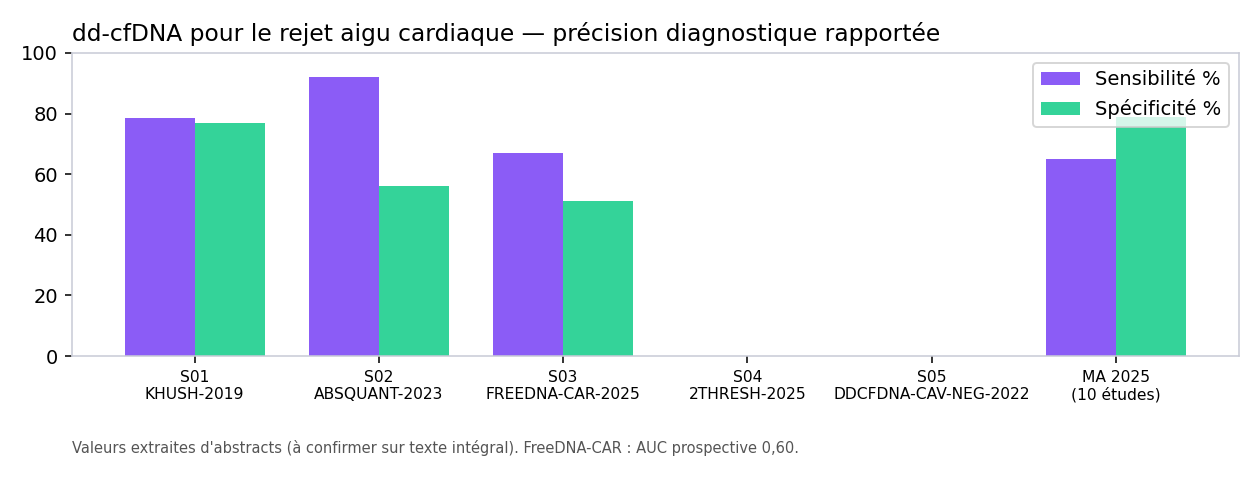
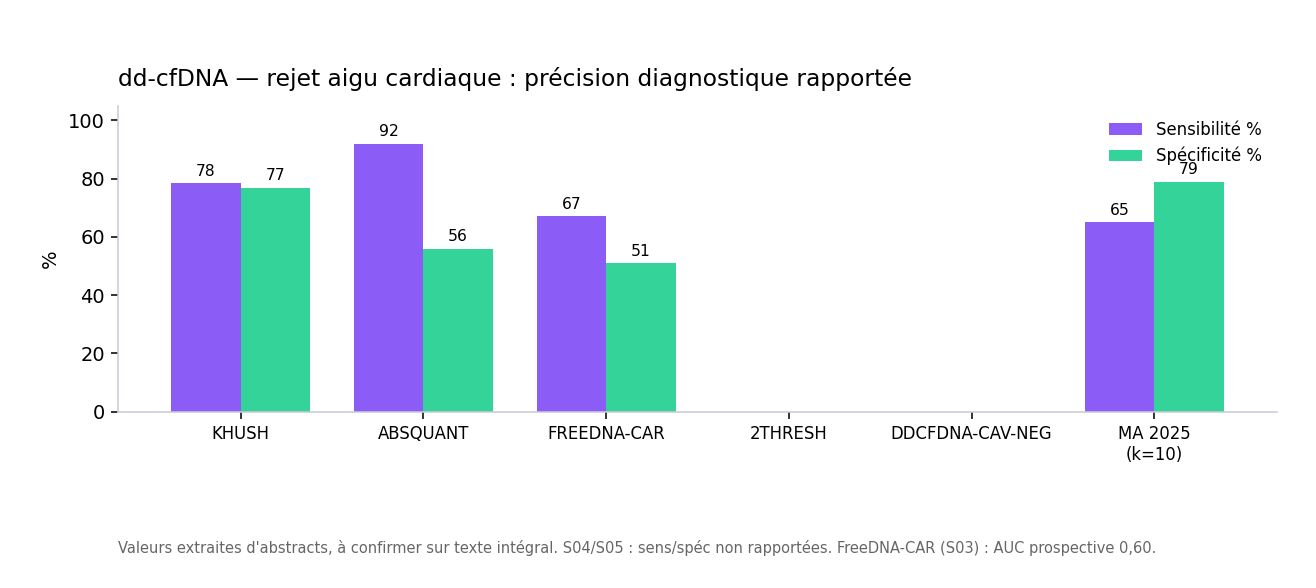
Fix figure layout — no overlapping text, legends fully inside canvas
Per user feedback (overlapping title/ticks, clipped legend labels on the radar):
- scoring_radar: title as high fig.text, legend below in one column with full
  short labels (never clipped), r-tick labels moved to an empty sector (198deg),
  generous reserved margins
- scoring_bars: full untruncated team labels, left margin widened, value labels clear
- ddcfdna_landscape: legend inside upper-right (no bar overlap), value labels above
  bars, caption via fig.text within a reserved bottom margin
- prisma: even vertical slots, arrows between boxes only, text wrapped inside boxes;
  shows real identified (794) / deduped (670) counts
- all four PNGs visually verified; RAPPORT_FINAL.md regenerated; app boots clean

diff --git a/scripts/02_generate_figures.py b/scripts/02_generate_figures.py
@@ -3,17 +3,22 @@
 Génère à partir des données seed :
   figures/fig_scoring_radar.png    — radar des 5 équipes françaises (6 axes /10)
   figures/fig_scoring_bars.png     — total pondéré /70, trié
-  figures/fig_ddcfdna_landscape.png— sens/spéc/AUC des études dd-cfDNA + MA publiée
-  figures/fig_prisma_template.png  — gabarit de diagramme PRISMA (compteurs = "à remplir")
+  figures/fig_ddcfdna_landscape.png— sens/spéc des études dd-cfDNA + MA publiée
+  figures/fig_prisma_template.png  — diagramme PRISMA (compteurs réels + étapes à remplir)
 
-Aucune donnée inventée : les figures reflètent strictement data/*.csv. Le PRISMA est un
-gabarit tant que la recherche formelle (Phase 2) n'a pas produit les comptes.
+Règles de mise en page (feedback utilisateur, sept. 2026) :
+  - aucun texte qui se superpose (titre vs ticks vs légende) ;
+  - légende entièrement dans le canvas, hors zone de tracé, libellés courts ;
+  - légendes/notes via fig.text avec marge réservée, jamais de ax.text qui déborde.
+
+Aucune donnée inventée : les figures reflètent strictement data/*.csv.
 
 Usage : python scripts/02_generate_figures.py
 """
 
 from __future__ import annotations
 
+import textwrap
 from pathlib import Path
 
 import matplotlib
@@ -24,59 +29,92 @@ import pandas as pd
 
 ROOT = Path(__file__).resolve().parent.parent
 DATA = ROOT / "data"
+MADIR = ROOT / "meta-analysis" / "data"
 FIG = ROOT / "figures"
 FIG.mkdir(exist_ok=True)
 
 ACCENT = "#8b5cf6"
 MINT = "#34d399"
 INK = "#10151f"
-plt.rcParams.update({"font.size": 10, "axes.edgecolor": "#c9cbd6", "savefig.dpi": 140})
+SERIES = ["#6d28d9", "#0ea5e9", "#16a34a", "#dc2626", "#d97706"]
+plt.rcParams.update({
+    "font.size": 10,
+    "axes.edgecolor": "#c9cbd6",
+    "savefig.dpi": 140,
+    "figure.facecolor": "white",
+})
 
 AXES = [
     ("score_scientifique", "Science"),
-    ("acces_donnees", "Accès données"),
-    ("expertise_tx_cardiaque", "Tx cardiaque"),
+    ("acces_donnees", "Accès\ndonnées"),
+    ("expertise_tx_cardiaque", "Tx\ncardiaque"),
     ("expertise_immunologie", "Immuno"),
-    ("compat_ia_bioinfo", "IA / bioinfo"),
+    ("compat_ia_bioinfo", "IA /\nbioinfo"),
     ("potentiel_collaboration", "Collab."),
 ]
 
+# libellés courts et stables pour les légendes (jamais tronqués)
+SHORT = {
+    "PTG-PARCC": "Paris Transplant Group (Loupy/Coutance)",
+    "PITIE-HTX": "Pitié-Salpêtrière HTx (Coutance)",
+    "CR2TI-NANTES": "CR2TI Nantes (Brouard)",
+    "CIRI-NOPAB-LYON": "CIRI Lyon (Thaunat)",
+    "APHM-MARSEILLE": "C2VN Marseille (Paul)",
+}
 
-def short(label: str) -> str:
-    return label.split(" - ")[0].split(" (")[0][:34]
+
+def label_for(row) -> str:
+    return SHORT.get(row["team_id"], str(row.get("team_label", row["team_id"]))[:38])
 
 
 def scoring_radar(df: pd.DataFrame) -> None:
     cats = [a[1] for a in AXES]
     ang = np.linspace(0, 2 * np.pi, len(cats), endpoint=False).tolist()
     ang += ang[:1]
-    fig, ax = plt.subplots(figsize=(7, 7), subplot_kw=dict(polar=True))
-    for _, r in df.iterrows():
-        vals = [r[a[0]] for a in AXES]
+
+    fig = plt.figure(figsize=(8.4, 8.6))
+    # zone de tracé : haut de la figure ; bas réservé à la légende
+    ax = fig.add_axes([0.13, 0.30, 0.74, 0.60], polar=True)
+
+    for i, (_, r) in enumerate(df.iterrows()):
+        vals = [float(r[a[0]]) for a in AXES]
         vals += vals[:1]
-        ax.plot(ang, vals, linewidth=1.6, label=short(str(r.get("team_label", r["team_id"]))))
-        ax.fill(ang, vals, alpha=0.08)
+        c = SERIES[i % len(SERIES)]
+        ax.plot(ang, vals, linewidth=1.8, color=c, label=label_for(r))
+        ax.fill(ang, vals, color=c, alpha=0.07)
+
     ax.set_xticks(ang[:-1])
-    ax.set_xticklabels(cats)
+    ax.set_xticklabels(cats, fontsize=9)
+    ax.tick_params(axis="x", pad=12)
     ax.set_ylim(0, 10)
-    ax.set_title("Scoring des équipes françaises (6 axes /10)", pad=18)
-    ax.legend(loc="upper right", bbox_to_anchor=(1.35, 1.12), fontsize=8)
-    fig.tight_layout()
-    fig.savefig(FIG / "fig_scoring_radar.png", bbox_inches="tight")
+    ax.set_yticks([2, 4, 6, 8, 10])
+    ax.set_yticklabels(["2", "4", "6", "8", "10"], fontsize=7.5, color="#888")
+    ax.set_rlabel_position(198)  # secteur vide (entre Immuno et IA)
+
+    fig.text(0.5, 0.965, "Scoring des équipes françaises — 6 axes notés /10",
+             ha="center", va="top", fontsize=13, weight="bold")
+    fig.legend(loc="lower center", bbox_to_anchor=(0.5, 0.02), ncol=1,
+               fontsize=8.5, frameon=False, handlelength=1.6, labelspacing=0.55)
+    fig.savefig(FIG / "fig_scoring_radar.png")
     plt.close(fig)
 
 
 def scoring_bars(df: pd.DataFrame) -> None:
     d = df.sort_values("total_pondere")
-    fig, ax = plt.subplots(figsize=(8, 3.2))
-    ax.barh([short(str(x)) for x in d.get("team_label", d["team_id"])],
-            d["total_pondere"], color=ACCENT)
+    labels = [label_for(r) for _, r in d.iterrows()]
+    fig, ax = plt.subplots(figsize=(9.2, 3.6))
+    fig.subplots_adjust(left=0.34, right=0.97, top=0.84, bottom=0.16)
+    y = np.arange(len(d))
+    ax.barh(y, d["total_pondere"], color=ACCENT, height=0.62)
+    ax.set_yticks(y)
+    ax.set_yticklabels(labels, fontsize=9)
+    xmax = float(d["total_max"].max()) if "total_max" in d else 70
+    ax.set_xlim(0, xmax + 4)
     ax.set_xlabel("Score pondéré /70")
-    ax.set_xlim(0, float(d["total_max"].max()) if "total_max" in d else 70)
-    for y, v in enumerate(d["total_pondere"]):
-        ax.text(v + 0.6, y, f"{v:.1f}", va="center", fontsize=9)
-    ax.set_title("Classement des collaborations françaises", loc="left")
-    fig.tight_layout()
+    for yi, v in zip(y, d["total_pondere"]):
+        ax.text(v + 0.8, yi, f"{v:.1f}", va="center", fontsize=9)
+    ax.set_title("Classement des collaborations françaises", loc="left", pad=10)
+    ax.spines[["top", "right"]].set_visible(False)
     fig.savefig(FIG / "fig_scoring_bars.png")
     plt.close(fig)
 
@@ -91,63 +129,90 @@ def ddcfdna_landscape(reg: pd.DataFrame, meta: pd.DataFrame) -> None:
     rows = []
     for _, r in reg.iterrows():
         if "dd-cfDNA" in str(r.get("other_biomarkers", "")) and str(r["study_id"]).startswith("S0"):
-            rows.append((r["study_id"].replace("-", "\n", 1), pct(r["sensitivity"]), pct(r["specificity"])))
+            sid = str(r["study_id"])
+            short = sid.split("-", 1)[1].rsplit("-", 1)[0] if "-" in sid else sid
+            rows.append((short, pct(r["sensitivity"]), pct(r["specificity"])))
     ma = meta[meta["analysis"].str.contains("MA publiee", na=False)]
     if not ma.empty:
-        rows.append(("MA 2025\n(10 études)", pct(ma.iloc[0]["pooled_sensitivity"]), pct(ma.iloc[0]["pooled_specificity"])))
+        rows.append(("MA 2025\n(k=10)", pct(ma.iloc[0]["pooled_sensitivity"]),
+                     pct(ma.iloc[0]["pooled_specificity"])))
     if not rows:
         return
     labels, sens, spec = zip(*rows)
     x = np.arange(len(labels))
     w = 0.38
-    fig, ax = plt.subplots(figsize=(9, 3.6))
-    ax.bar(x - w / 2, sens, w, label="Sensibilité %", color=ACCENT)
-    ax.bar(x + w / 2, spec, w, label="Spécificité %", color=MINT)
+    fig, ax = plt.subplots(figsize=(9.4, 4.2))
+    fig.subplots_adjust(left=0.09, right=0.97, top=0.82, bottom=0.30)
+    b1 = ax.bar(x - w / 2, sens, w, label="Sensibilité %", color=ACCENT)
+    b2 = ax.bar(x + w / 2, spec, w, label="Spécificité %", color=MINT)
+    for bars in (b1, b2):
+        for rect in bars:
+            h = rect.get_height()
+            if not np.isnan(h):
+                ax.text(rect.get_x() + rect.get_width() / 2, h + 1.5, f"{h:.0f}",
+                        ha="center", va="bottom", fontsize=8)
     ax.set_xticks(x)
-    ax.set_xticklabels(labels, fontsize=8)
-    ax.set_ylim(0, 100)
-    ax.set_title("dd-cfDNA pour le rejet aigu cardiaque — précision diagnostique rapportée", loc="left")
-    ax.legend()
-    ax.text(0.0, -0.32, "Valeurs extraites d'abstracts (à confirmer sur texte intégral). "
-            "FreeDNA-CAR : AUC prospective 0,60.", transform=ax.transAxes, fontsize=7.5, color="#555")
-    fig.tight_layout()
+    ax.set_xticklabels(labels, fontsize=8.5)
+    ax.set_ylim(0, 105)
+    ax.set_ylabel("%")
+    ax.set_title("dd-cfDNA — rejet aigu cardiaque : précision diagnostique rapportée",
+                 loc="left", pad=10)
+    ax.legend(loc="upper right", fontsize=8.5, frameon=False)
+    ax.spines[["top", "right"]].set_visible(False)
+    fig.text(0.09, 0.06,
+             "Valeurs extraites d'abstracts, à confirmer sur texte intégral. "
+             "S04/S05 : sens/spéc non rapportées. FreeDNA-CAR (S03) : AUC prospective 0,60.",
+             fontsize=7.5, color="#666")
     fig.savefig(FIG / "fig_ddcfdna_landscape.png")
     plt.close(fig)
 
 
 def prisma_template() -> None:
-    corpus = DATA.parent / "meta-analysis" / "data" / "lit_corpus.csv"
-    qlog = DATA.parent / "meta-analysis" / "data" / "query_log.csv"
-    n_dedup = n_ident = "à remplir"
+    corpus = MADIR / "lit_corpus.csv"
+    qlog = MADIR / "query_log.csv"
+    n_dedup = "à remplir"
+    n_ident = "à remplir"
     if corpus.exists():
-        n_dedup = str(len(pd.read_csv(corpus)))
+        n_dedup = f"{len(pd.read_csv(corpus))}"
     if qlog.exists():
         ql = pd.read_csv(qlog)
         ql = ql[ql["count"].astype(str).str.isdigit()]
-        n_ident = f"{int(ql['count'].astype(int).sum())} (8 requêtes PubMed, {ql['date'].iloc[0]})"
+        if len(ql):
+            n_ident = f"{int(ql['count'].astype(int).sum())} (8 requêtes, {ql['date'].iloc[0]})"
 
-    fig, ax = plt.subplots(figsize=(6.5, 8))
-    ax.axis("off")
     steps = [
-        ("Records identifiés\n(PubMed, 8 requêtes journalisées)", f"n = {n_ident}"),
+        ("Records identifiés — PubMed, 8 requêtes journalisées", f"n = {n_ident}"),
         ("Après déduplication (PMID)", f"n = {n_dedup}"),
-        ("Screening titre/résumé", "exclus : n = à remplir"),
-        ("Texte intégral évalué", "exclus : n = à remplir (motifs)"),
-        ("Études incluses (synthèse)", "n = à remplir"),
-        ("Études incluses (méta-analyse dd-cfDNA)", "n ≈ 10 (cf. MA 2025) — à confirmer"),
+        ("Screening titre / résumé", "exclus : n = à remplir"),
+        ("Texte intégral évalué", "exclus : n = à remplir (avec motifs)"),
+        ("Études incluses — synthèse qualitative", "n = à remplir"),
+        ("Études incluses — méta-analyse dd-cfDNA", "n ≈ 10 (MA 2025) — à confirmer"),
     ]
-    y = 0.94
-    for title, note in steps:
-        ax.add_patch(plt.Rectangle((0.1, y - 0.1), 0.8, 0.09, fill=True,
-                                   facecolor="#f2f1f6", edgecolor=ACCENT))
-        ax.text(0.5, y - 0.037, title, ha="center", va="center", fontsize=9, color=INK)
-        ax.text(0.5, y - 0.075, note, ha="center", va="center", fontsize=7.5, color="#777")
-        if y > 0.3:
-            ax.annotate("", xy=(0.5, y - 0.11), xytext=(0.5, y - 0.1 + 0.001),
-                        arrowprops=dict(arrowstyle="-|>", color=ACCENT))
-        y -= 0.155
-    ax.set_title("Diagramme PRISMA — gabarit (Phase 2)", fontsize=11)
-    fig.savefig(FIG / "fig_prisma_template.png", bbox_inches="tight")
+
+    fig, ax = plt.subplots(figsize=(7.6, 9.2))
+    fig.subplots_adjust(left=0.04, right=0.96, top=0.9, bottom=0.05)
+    ax.set_xlim(0, 1)
+    ax.set_ylim(0, 1)
+    ax.axis("off")
+    ax.set_title("Diagramme PRISMA — compteurs réels + étapes à compléter (Phase 2)",
+                 fontsize=12, pad=16)
+
+    n = len(steps)
+    slot = 0.92 / n            # hauteur par étape (boîte + flèche)
+    box_h = slot * 0.62
+    for i, (title, note) in enumerate(steps):
+        top = 0.95 - i * slot
+        ax.add_patch(plt.Rectangle((0.08, top - box_h), 0.84, box_h,
+                                   facecolor="#f2f1f6", edgecolor=ACCENT, linewidth=1.2))
+        ax.text(0.5, top - box_h * 0.36, textwrap.fill(title, 46),
+                ha="center", va="center", fontsize=9.5, color=INK)
+        ax.text(0.5, top - box_h * 0.80, note,
+                ha="center", va="center", fontsize=8, color="#6b6b6b")
+        if i < n - 1:
+            ax.annotate("", xy=(0.5, top - slot + 0.002),
+                        xytext=(0.5, top - box_h - 0.002),
+                        arrowprops=dict(arrowstyle="-|>", color=ACCENT, lw=1.4))
+    fig.savefig(FIG / "fig_prisma_template.png")
     plt.close(fig)
 
 

diff --git a/docs/RAPPORT_FINAL.md b/docs/RAPPORT_FINAL.md
@@ -5,7 +5,7 @@
 MedFlow AI · Dr. Mamadou Lamine Tall, PhD (Bioinformatique & Data Science) — Montpellier
 · contact@medflow-ai.fr · https://medflow-ai.fr
 
-*Document assemblé automatiquement le 2026-09-07 par
+*Document assemblé automatiquement le 2026-09-08 par
 `scripts/05_assemble_report.py` à partir des sections de `docs/`. Ne pas éditer ici —
 éditer les sections sources puis relancer le script.*
 
